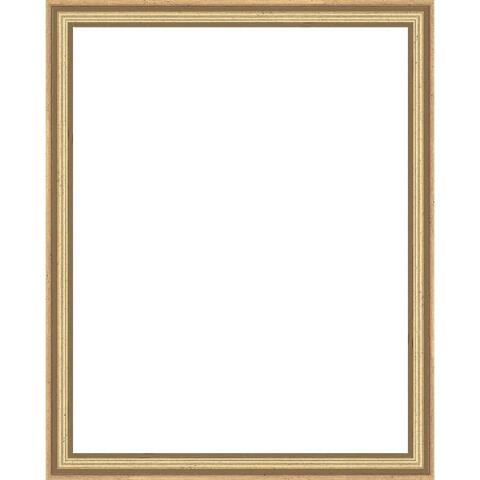
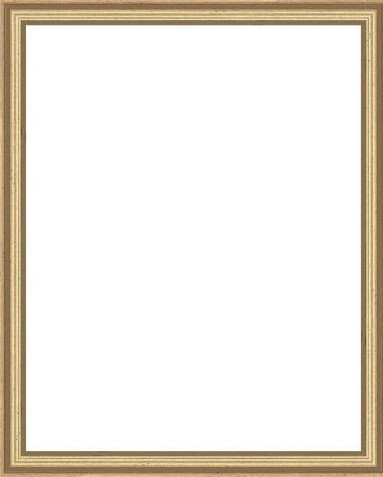
complete

Changed region(s): [[0.0, 0.0, 1.0, 1.0]]

diff --git a/lib/image_detection.dart b/lib/image_detection.dart
@@ -1,4 +1,7 @@
+import 'dart:io';
 import 'package:flutter/material.dart';
+import 'package:image_picker/image_picker.dart';
+import 'package:tflite/tflite.dart';
 
 class ImageDetection extends StatefulWidget {
   @override
@@ -6,8 +9,171 @@ class ImageDetection extends StatefulWidget {
 }
 
 class _ImageDetectionState extends State<ImageDetection> {
+  ImagePicker imagePicker;
+  File _file;
+  String result = '';
+
+  @override
+  void initState() {
+    super.initState();
+    imagePicker = ImagePicker();
+    loadDataModelFiles();
+  }
+
+  imageFromCamera() async {
+    PickedFile pickedFile = await imagePicker.getImage(
+      source: ImageSource.camera,
+    );
+    _file = File(
+      pickedFile.path,
+    );
+    setState(() {
+      runModelOnImage();
+    });
+  }
+
+  imageFormGallery() async {
+    PickedFile pickedFile = await imagePicker.getImage(
+      source: ImageSource.gallery,
+    );
+    _file = File(
+      pickedFile.path,
+    );
+    setState(() {
+      runModelOnImage();
+    });
+  }
+
+  @override
+  void dispose() async {
+    super.dispose();
+  }
+
+  runModelOnImage() async {
+    var recognitions = await Tflite.runModelOnImage(
+      path: _file.path,
+      imageMean: 0.0,
+      imageStd: 255.0,
+      numResults: 2,
+      threshold: 0.1,
+      asynch: true,
+    );
+    print(recognitions.length.toString());
+    setState(() {
+      result = "";
+    });
+    recognitions.forEach((element) {
+      setState(() {
+        result += element["label"]+'\n';
+      });
+    });
+  }
+
+  loadDataModelFiles() async {
+    await Tflite.loadModel(
+      model: 'assets/model.tflite',
+      labels: 'assets/labels.txt',
+      numThreads: 1,
+      isAsset: true,
+      useGpuDelegate: false,
+    );
+  }
+
   @override
   Widget build(BuildContext context) {
-    return Container();
+    return Container(
+      decoration: BoxDecoration(
+        image: DecorationImage(
+          image: AssetImage(
+            'assets/background.jpg',
+          ),
+          fit: BoxFit.cover,
+        ),
+      ),
+      child: Column(
+        children: [
+          Container(
+            margin: EdgeInsets.only(
+              top: 100,
+            ),
+            child: Stack(
+              children: [
+                Stack(
+                  children: [
+                    Center(
+                      child: Image.asset(
+                        'assets/frame.jpg',
+                        height: 250,
+                        width: 250,
+                      ),
+                    ),
+                  ],
+                ),
+                Center(
+                  child: TextButton(
+                    onPressed: imageFormGallery,
+                    onLongPress: imageFromCamera,
+                    child: Container(
+                      margin: EdgeInsets.only(
+                        top: 8,
+                      ),
+                      child: _file != null
+                          ? Image.file(
+                              _file,
+                              width: 180,
+                              height: 220,
+                              fit: BoxFit.fill,
+                            )
+                          : Container(
+                              width: 150,
+                              height: 225,
+                              child: Column(
+                                mainAxisAlignment: MainAxisAlignment.center,
+                                children: [
+                                  Icon(
+                                    Icons.camera_alt,
+                                    color: Colors.grey[800],
+                                  ),
+                                  Text(
+                                    'Press for Gallery',
+                                    style: TextStyle(
+                                      fontSize: 12,
+                                    ),
+                                  ),
+                                  Text(
+                                    'Long Press for Camera',
+                                    style: TextStyle(
+                                      fontSize: 12,
+                                    ),
+                                  ),
+                                ],
+                              ),
+                            ),
+                    ),
+                  ),
+                ),
+              ],
+            ),
+          ),
+          Expanded(
+            child: Container(
+              margin: EdgeInsets.only(
+                top: 20,
+              ),
+              child: SingleChildScrollView(
+                child: Text(
+                  '$result',
+                  textAlign: TextAlign.center,
+                  style: TextStyle(
+                    fontSize: 20,
+                    fontWeight: FontWeight.w500,
+                  ),
+                ),
+              ),
+            ),
+          ),
+        ],
+      ),
+    );
   }
 }

diff --git a/lib/camera_detection.dart b/lib/camera_detection.dart
@@ -1,6 +1,7 @@
 import 'package:camera/camera.dart';
 import 'package:dog_breed_detector/main.dart';
 import 'package:flutter/material.dart';
+import 'package:tflite/tflite.dart';
 
 class CameraDetection extends StatefulWidget {
   @override
@@ -24,26 +25,60 @@ class _CameraDetectionState extends State<CameraDetection> {
       }
       setState(() {
         cameraController.startImageStream((image) => {
-            if (!isRunning)
-              {
-                isRunning = true,
-                imageCamera = image,
-                //runModelOnStreamFrames(),
-              },
-          });
+              if (!isRunning)
+                {
+                  isRunning = true,
+                  imageCamera = image,
+                  runModelOnStreamFrames(),
+                },
+            });
       });
     });
+  }
+
+  loadModel() async {
+    await Tflite.loadModel(
+      model: 'assets/model.tflite',
+      labels: 'assets/labels.txt',
+    );
   }
 
   @override
   void initState() {
     super.initState();
+    loadModel();
   }
 
   @override
-  void dispose() {
-    cameraController.dispose();
+  void dispose() async {
     super.dispose();
+    cameraController?.dispose();
+  }
+
+  runModelOnStreamFrames() async {
+    if (imageCamera != null) {
+      var recognitions = await Tflite.runModelOnFrame(
+        bytesList: imageCamera.planes.map((plane) {
+          return plane.bytes;
+        }).toList(),
+        imageHeight: imageCamera.height,
+        imageWidth: imageCamera.width,
+        imageMean: 127.5,
+        imageStd: 127.5,
+        rotation: 90,
+        numResults: 2,
+        threshold: 0.1,
+        asynch: true,
+      );
+      print(recognitions.length.toString());
+      result = "";
+      recognitions.forEach((element) {
+        setState(() {
+          result += element["label"] + '\n';
+        });
+      });
+      isRunning = false;
+    }
   }
 
   @override
@@ -63,8 +98,11 @@ class _CameraDetectionState extends State<CameraDetection> {
             children: [
               Center(
                 child: Container(
-                  height: 320,
-                  width: 360,
+                  margin: EdgeInsets.only(
+                    top: 100,
+                  ),
+                  height: 300,
+                  width: 330,
                   child: Image.asset(
                     'assets/frame.jpg',
                   ),
@@ -74,24 +112,26 @@ class _CameraDetectionState extends State<CameraDetection> {
                 child: TextButton(
                   child: Container(
                     margin: EdgeInsets.only(
-                      top: 35,
+                      top: 100,
                     ),
-                    height: 270,
-                    width: 360,
-                    child: imageCamera == null ? Container(
-                      height: 270,
-                      width: 360,
-                      child: Icon(
-                        Icons.photo_camera_back,
-                        color: Colors.blueAccent,
-                        size: 40,
-                      ),
-                    ) : AspectRatio(
-                      aspectRatio: cameraController.value.aspectRatio,
-                      child: CameraPreview(
-                        cameraController,
-                      ),
-                    ),
+                    height: 280,
+                    width: 240,
+                    child: imageCamera == null
+                        ? Container(
+                            height: 150,
+                            width: 200,
+                            child: Icon(
+                              Icons.photo_camera_back,
+                              color: Colors.blueAccent,
+                              size: 40,
+                            ),
+                          )
+                        : AspectRatio(
+                            aspectRatio: cameraController.value.aspectRatio,
+                            child: CameraPreview(
+                              cameraController,
+                            ),
+                          ),
                   ),
                   onPressed: () {
                     initializeCamera();
@@ -99,6 +139,24 @@ class _CameraDetectionState extends State<CameraDetection> {
                 ),
               ),
             ],
+          ),
+          Center(
+            child: Container(
+              margin: EdgeInsets.only(
+                top: 55,
+              ),
+              child: SingleChildScrollView(
+                child: Text(
+                  result,
+                  style: TextStyle(
+                    backgroundColor: Colors.white,
+                    fontSize: 25,
+                    color: Colors.black,
+                  ),
+                  textAlign: TextAlign.center,
+                ),
+              ),
+            ),
           ),
         ],
       ),

diff --git a/lib/homepage.dart b/lib/homepage.dart
@@ -36,17 +36,25 @@ class _HomePageState extends State<HomePage> {
         items: [
           BottomNavigationBarItem(
             icon: Icon(
-              Icons.photo_camera_back,
+              Icons.image,
+              color: Colors.teal,
             ),
             label: 'Gallery',
           ),
           BottomNavigationBarItem(
             icon: Icon(
               Icons.photo_camera_front,
+              color: Colors.teal,
             ),
             label: 'Live Camera',
           ),
         ],
+        backgroundColor: Colors.green.shade50,
+        elevation: 5,
+        iconSize: 25,
+        selectedFontSize: 16,
+        unselectedFontSize: 16,
+        unselectedItemColor: Colors.red,
       ),
     );
   }

diff --git a/lib/splash_page.dart b/lib/splash_page.dart
@@ -11,7 +11,7 @@ class _SplashPageState extends State<SplashPage> {
   @override
   Widget build(BuildContext context) {
     return SplashScreen(
-      seconds: 7,
+      seconds: 5,
       navigateAfterSeconds: HomePage(),
       title: Text(
         'Dog Breed Detector',
@@ -26,12 +26,12 @@ class _SplashPageState extends State<SplashPage> {
       ),
       backgroundColor: Colors.blue.shade50,
       photoSize: 100,
-      loaderColor: Colors.red,
+      loaderColor: Colors.deepOrangeAccent,
       loadingText: Text(
         'From Chirag Goel',
         style: TextStyle(
           color: Colors.pinkAccent,
-          fontSize: 16,
+          fontSize: 18,
         ),
       ),
     );
